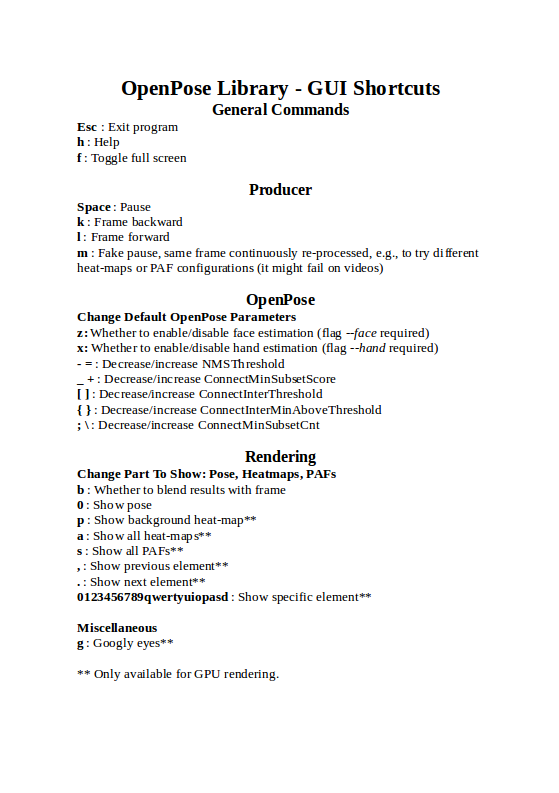
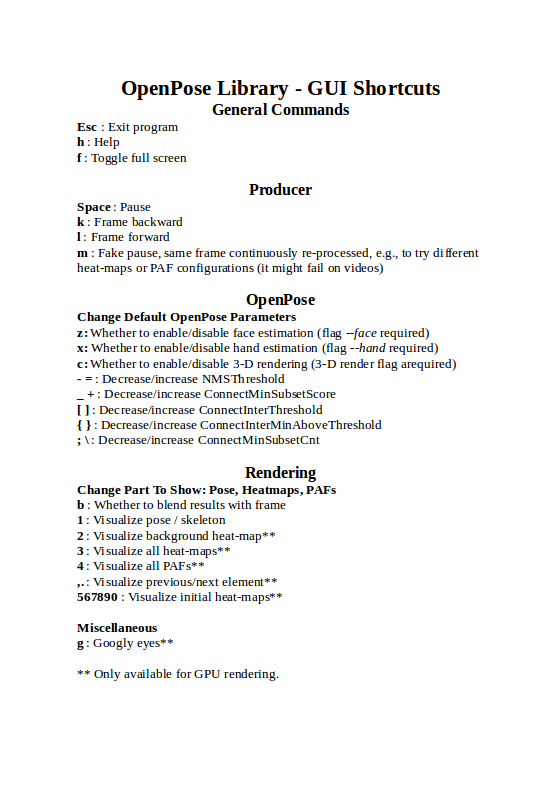
Switched shorcuts for channel selection

Changed region(s): [[0.1216, 0.454, 0.8211, 0.7566]]

diff --git a/src/openpose/gui/gui.cpp b/src/openpose/gui/gui.cpp
@@ -33,7 +33,8 @@ namespace op
                        std::vector<std::shared_ptr<HandExtractorNet>>& handExtractorNets,
                        std::vector<std::shared_ptr<Renderer>>& renderers,
                        std::shared_ptr<std::atomic<bool>>& isRunningSharedPtr,
-                       std::shared_ptr<std::pair<std::atomic<bool>, std::atomic<int>>>& videoSeekSharedPtr)
+                       std::shared_ptr<std::pair<std::atomic<bool>, std::atomic<int>>>& videoSeekSharedPtr,
+                       DisplayMode& displayMode, DisplayMode& displayModeOriginal)
     {
         try
         {
@@ -128,6 +129,12 @@ namespace op
                         log("OpenPose must be run with face keypoint estimation enabled (`--hand` flag).",
                             Priority::High);
                 }
+                // Enable/disable extra rendering (3D/Adam), while keeping 2D rendering
+                else if (castedKey=='c')
+                {
+                    displayMode = (displayMode == DisplayMode::DisplayAll
+                                   ? displayModeOriginal : DisplayMode::DisplayAll);
+                }
                 // ------------------------- Miscellaneous ------------------------- //
                 // Show googly eyes
                 else if (castedKey=='g')
@@ -142,11 +149,37 @@ namespace op
                 }
                 else
                 {
-                    const std::string key2part = "0123456789qwertyuiopasd";
+                    // Skeleton / Background / Add keypoints / Add PAFs
+                    const std::string key2part = "1234";
                     const auto newElementToRender = key2part.find(castedKey);
                     if (newElementToRender != std::string::npos)
+                    {
+                        ElementToRender elementToRender;
+                        if (castedKey=='1')
+                            elementToRender = ElementToRender::Skeleton;
+                        else if (castedKey=='2')
+                            elementToRender = ElementToRender::Background;
+                        else if (castedKey=='3')
+                            elementToRender = ElementToRender::AddKeypoints;
+                        else if (castedKey=='4')
+                            elementToRender = ElementToRender::AddPAFs;
+                        else
+                            error("Unknown ElementToRender value.", __LINE__, __FUNCTION__, __FILE__);
                         for (auto& renderer : renderers)
-                            renderer->setElementToRender((int)newElementToRender);
+                            renderer->setElementToRender(elementToRender);
+                    }
+
+                    // Heatmap visualization
+                    else
+                    {
+                        // Other rendering options
+                        // const std::string key2partHeatmaps = "0123456789qwertyuiopasd";
+                        const std::string key2partHeatmaps = "567890";
+                        const auto newElementToRender = key2partHeatmaps.find(castedKey);
+                        if (newElementToRender != std::string::npos)
+                            for (auto& renderer : renderers)
+                                renderer->setElementToRender((int)newElementToRender+key2part.size());
+                    }
                 }
             }
         }
@@ -162,19 +195,20 @@ namespace op
                          std::vector<std::shared_ptr<HandExtractorNet>>& handExtractorNets,
                          std::vector<std::shared_ptr<Renderer>>& renderers,
                          std::shared_ptr<std::atomic<bool>>& isRunningSharedPtr,
-                         std::shared_ptr<std::pair<std::atomic<bool>, std::atomic<int>>>& videoSeekSharedPtr)
+                         std::shared_ptr<std::pair<std::atomic<bool>, std::atomic<int>>>& videoSeekSharedPtr,
+                         DisplayMode& displayMode, DisplayMode& displayModeOriginal)
     {
         try
         {
             // The handleUserInput must be always performed, even if no tDatum is detected
             bool guiPaused = false;
             handleWaitKey(guiPaused, frameDisplayer, poseExtractorNets, faceExtractorNets, handExtractorNets,
-                          renderers, isRunningSharedPtr, videoSeekSharedPtr);
+                          renderers, isRunningSharedPtr, videoSeekSharedPtr, displayMode, displayModeOriginal);
             while (guiPaused)
             {
                 std::this_thread::sleep_for(std::chrono::milliseconds{1});
                 handleWaitKey(guiPaused, frameDisplayer, poseExtractorNets, faceExtractorNets, handExtractorNets,
-                              renderers, isRunningSharedPtr, videoSeekSharedPtr);
+                              renderers, isRunningSharedPtr, videoSeekSharedPtr, displayMode, displayModeOriginal);
             }
         }
         catch (const std::exception& e)
@@ -189,8 +223,11 @@ namespace op
              const std::vector<std::shared_ptr<PoseExtractorNet>>& poseExtractorNets,
              const std::vector<std::shared_ptr<FaceExtractorNet>>& faceExtractorNets,
              const std::vector<std::shared_ptr<HandExtractorNet>>& handExtractorNets,
-             const std::vector<std::shared_ptr<Renderer>>& renderers) :
+             const std::vector<std::shared_ptr<Renderer>>& renderers,
+             const DisplayMode displayMode) :
         spIsRunning{isRunningSharedPtr},
+        mDisplayMode{displayMode},
+        mDisplayModeOriginal{displayMode},
         mFrameDisplayer{OPEN_POSE_NAME_AND_VERSION, outputSize, fullScreen},
         mPoseExtractorNets{poseExtractorNets},
         mFaceExtractorNets{faceExtractorNets},
@@ -248,7 +285,7 @@ namespace op
         {
             // Handle user input
             handleUserInput(mFrameDisplayer, mPoseExtractorNets, mFaceExtractorNets, mHandExtractorNets,
-                            mRenderers, spIsRunning, spVideoSeek);
+                            mRenderers, spIsRunning, spVideoSeek, mDisplayMode, mDisplayModeOriginal);
         }
         catch (const std::exception& e)
         {

diff --git a/src/openpose/pose/poseGpuRenderer.cpp b/src/openpose/pose/poseGpuRenderer.cpp
@@ -108,17 +108,9 @@ namespace op
                         // Parameters
                         const auto& heatMapSizes = spPoseExtractorNet->getHeatMapSize();
                         const Point<int> heatMapSize{heatMapSizes[3], heatMapSizes[2]};
-                        // Draw specific body part or bkg
-                        if (elementRendered <= numberBodyPartsPlusBkg)
-                        {
-                            elementRenderedName = mPartIndexToName.at(elementRendered-1);
-                            renderPoseHeatMapGpu(*spGpuMemory, mPoseModel, frameSize,
-                                                 spPoseExtractorNet->getHeatMapGpuConstPtr(),
-                                                 heatMapSize, scaleNetToOutput * scaleInputToOutput, elementRendered,
-                                                 (mBlendOriginalFrame ? getAlphaHeatMap() : 1.f));
-                        }
-                        // Draw PAFs (Part Affinity Fields)
-                        else if (elementRendered == numberBodyPartsPlusBkg+1)
+                        // Add all heatmaps
+                        if (elementRendered == 2)
+                        // if (elementRendered == numberBodyPartsPlusBkg+1)
                         {
                             elementRenderedName = "Heatmaps";
                             renderPoseHeatMapsGpu(*spGpuMemory, mPoseModel, frameSize,
@@ -127,13 +119,26 @@ namespace op
                                                   (mBlendOriginalFrame ? getAlphaHeatMap() : 1.f));
                         }
                         // Draw PAFs (Part Affinity Fields)
-                        else if (elementRendered == numberBodyPartsPlusBkg+2)
+                        else if (elementRendered == 3)
+                        // else if (elementRendered == numberBodyPartsPlusBkg+2)
                         {
                             elementRenderedName = "PAFs (Part Affinity Fields)";
                             renderPosePAFsGpu(*spGpuMemory, mPoseModel, frameSize,
                                               spPoseExtractorNet->getHeatMapGpuConstPtr(),
                                               heatMapSize, scaleNetToOutput * scaleInputToOutput,
                                               (mBlendOriginalFrame ? getAlphaHeatMap() : 1.f));
+                        }
+                        // Draw specific body part or background
+                        else if (elementRendered <= numberBodyPartsPlusBkg)
+                        {
+                            const auto realElementRendered = (elementRendered == 1
+                                                                ? numberBodyPartsPlusBkg
+                                                                : elementRendered - 3);
+                            elementRenderedName = mPartIndexToName.at(realElementRendered-1);
+                            renderPoseHeatMapGpu(*spGpuMemory, mPoseModel, frameSize,
+                                                 spPoseExtractorNet->getHeatMapGpuConstPtr(),
+                                                 heatMapSize, scaleNetToOutput * scaleInputToOutput, realElementRendered,
+                                                 (mBlendOriginalFrame ? getAlphaHeatMap() : 1.f));
                         }
                         // Draw affinity between 2 body parts
                         else

diff --git a/src/openpose/gui/guiAdam.cpp b/src/openpose/gui/guiAdam.cpp
@@ -52,15 +52,10 @@ namespace op
             // Shared parameters
             const std::shared_ptr<const TotalModel> spTotalModel;
 
-            // Display mode
-            DisplayMode mDisplayMode; // Whether to also display 2D keypoints
-
             ImplGuiAdam(const std::shared_ptr<const TotalModel>& totalModel,
-                        const DisplayMode displayMode = DisplayMode::DisplayAll,
                         const std::string& adamRenderedVideoPath = "") :
                 mWriteAdamRenderAsVideo{adamRenderedVideoPath},
-                spTotalModel{totalModel},
-                mDisplayMode{displayMode}
+                spTotalModel{totalModel}
             {
                 try
                 {
@@ -86,8 +81,8 @@ namespace op
                      const DisplayMode displayMode, const std::shared_ptr<const TotalModel>& totalModel,
                      const std::string& adamRenderedVideoPath) :
         Gui{outputSize, fullScreen, isRunningSharedPtr, videoSeekSharedPtr, poseExtractorNets, faceExtractorNets,
-            handExtractorNets, renderers},
-        spImpl{std::make_shared<ImplGuiAdam>(totalModel, displayMode, adamRenderedVideoPath)}
+            handExtractorNets, renderers, displayMode},
+        spImpl{std::make_shared<ImplGuiAdam>(totalModel, adamRenderedVideoPath)}
     {
         try
         {
@@ -121,11 +116,11 @@ namespace op
         try
         {
             // Init parent class
-            if (spImpl->mDisplayMode == DisplayMode::DisplayAll || spImpl->mDisplayMode == DisplayMode::Display2D)
+            if (mDisplayMode == DisplayMode::DisplayAll || mDisplayMode == DisplayMode::Display2D)
                 Gui::initializationOnThread();
             #ifdef WITH_3D_ADAM_MODEL
-                if (spImpl->mDisplayMode == DisplayMode::DisplayAll
-                    || spImpl->mDisplayMode == DisplayMode::DisplayAdam)
+                if (mDisplayMode == DisplayMode::DisplayAll
+                    || mDisplayMode == DisplayMode::DisplayAdam)
                 {
                     int argc = 0;
                     // char* argv[0];
@@ -158,8 +153,8 @@ namespace op
         {
             // Adam rendering
             #ifdef WITH_3D_ADAM_MODEL
-                if (spImpl->mDisplayMode == DisplayMode::DisplayAll
-                    || spImpl->mDisplayMode == DisplayMode::DisplayAdam)
+                if (mDisplayMode == DisplayMode::DisplayAll
+                    || mDisplayMode == DisplayMode::DisplayAdam)
                 {
                     CMeshModelInstance cMeshModelInstance;
                     VisualizedData visualizedData;
@@ -277,7 +272,7 @@ namespace op
         try
         {   
             // 2-D rendering
-            if (spImpl->mDisplayMode == DisplayMode::DisplayAll || spImpl->mDisplayMode == DisplayMode::Display2D)
+            if (mDisplayMode == DisplayMode::DisplayAll || mDisplayMode == DisplayMode::Display2D)
                 Gui::update();
         }
         catch (const std::exception& e)

diff --git a/src/openpose/core/renderer.cpp b/src/openpose/core/renderer.cpp
@@ -2,9 +2,9 @@
 
 namespace op
 {
-    Renderer::Renderer(const float renderThreshold, const float alphaKeypoint, const float alphaHeatMap,
-                       const bool blendOriginalFrame, const unsigned int elementToRender,
-                       const unsigned int numberElementsToRender) :
+    Renderer::Renderer(const float renderThreshold, const float alphaKeypoint,
+                       const float alphaHeatMap, const bool blendOriginalFrame,
+                       const unsigned int elementToRender, const unsigned int numberElementsToRender) :
         mRenderThreshold{renderThreshold},
         mBlendOriginalFrame{blendOriginalFrame},
         spElementToRender{std::make_shared<std::atomic<unsigned int>>(elementToRender)},
@@ -42,6 +42,27 @@ namespace op
         try
         {
             *spElementToRender = elementToRender % *spNumberElementsToRender;
+        }
+        catch (const std::exception& e)
+        {
+            error(e.what(), __LINE__, __FUNCTION__, __FILE__);
+        }
+    }
+
+    void Renderer::setElementToRender(const ElementToRender elementToRender)
+    {
+        try
+        {
+            if (elementToRender == ElementToRender::Skeleton)
+                *spElementToRender = 0;
+            else if (elementToRender == ElementToRender::Background)
+                *spElementToRender = 1;
+            else if (elementToRender == ElementToRender::AddKeypoints)
+                *spElementToRender = 2;
+            else if (elementToRender == ElementToRender::AddPAFs)
+                *spElementToRender = 3;
+            else
+                error("Unknown ElementToRender value.", __LINE__, __FUNCTION__, __FILE__);
         }
         catch (const std::exception& e)
         {

diff --git a/include/openpose/gui/gui.hpp b/include/openpose/gui/gui.hpp
@@ -21,7 +21,8 @@ namespace op
             const std::vector<std::shared_ptr<PoseExtractorNet>>& poseExtractorNets = {},
             const std::vector<std::shared_ptr<FaceExtractorNet>>& faceExtractorNets = {},
             const std::vector<std::shared_ptr<HandExtractorNet>>& handExtractorNets = {},
-            const std::vector<std::shared_ptr<Renderer>>& renderers = {});
+            const std::vector<std::shared_ptr<Renderer>>& renderers = {},
+            const DisplayMode displayMode = DisplayMode::Display2D);
 
         virtual void initializationOnThread();
 
@@ -33,6 +34,8 @@ namespace op
 
     protected:
         std::shared_ptr<std::atomic<bool>> spIsRunning;
+        DisplayMode mDisplayMode;
+        DisplayMode mDisplayModeOriginal;
 
     private:
         // Frames display

diff --git a/src/openpose/gui/gui3D.cpp b/src/openpose/gui/gui3D.cpp
@@ -423,8 +423,7 @@ namespace op
                  const std::vector<std::shared_ptr<Renderer>>& renderers, const PoseModel poseModel,
                  const DisplayMode displayMode) :
         Gui{outputSize, fullScreen, isRunningSharedPtr, videoSeekSharedPtr, poseExtractorNets, faceExtractorNets,
-            handExtractorNets, renderers},
-        mDisplayMode{displayMode}
+            handExtractorNets, renderers, displayMode}
     {
         try
         {

diff --git a/include/openpose/core/renderer.hpp b/include/openpose/core/renderer.hpp
@@ -3,6 +3,7 @@
 
 #include <atomic>
 #include <openpose/core/common.hpp>
+#include <openpose/core/enumClasses.hpp>
 
 namespace op
 {
@@ -16,6 +17,8 @@ namespace op
         void increaseElementToRender(const int increment);
 
         void setElementToRender(const int elementToRender);
+
+        void setElementToRender(const ElementToRender elementToRender);
 
         bool getBlendOriginalFrame() const;
 

diff --git a/include/openpose/core/enumClasses.hpp b/include/openpose/core/enumClasses.hpp
@@ -27,6 +27,14 @@ namespace op
         Cpu,
         Gpu,
     };
+
+    enum class ElementToRender : unsigned char
+    {
+        Skeleton,
+        Background,
+        AddKeypoints,
+        AddPAFs,
+    };
 }
 
 #endif // OPENPOSE_CORE_ENUM_CLASSES_HPP

diff --git a/include/openpose/gui/gui3D.hpp b/include/openpose/gui/gui3D.hpp
@@ -30,9 +30,6 @@ namespace op
                           const Array<float>& leftHandKeypoints3D, const Array<float>& rightHandKeypoints3D);
 
         virtual void update();
-
-    private:
-        DisplayMode mDisplayMode;
     };
 }
 

diff --git a/doc/release_notes.md b/doc/release_notes.md
@@ -228,11 +228,13 @@ OpenPose Library - Release Notes
     8. New `PoseExtractor` class to contain future ID and tracking algorithms as well as the current OpenPose keypoint detection algorithm.
     9. Added initial alpha versions of the `tracking` and `identification` modules (for now disabled but available in the source code), including `PersonIdExtractor` and `PersonTracker`. `PersonIdExtractor` includes greedy matrix OP-LK matching.
     10. Added catchs to all demos for higher debug information.
+    11. GUI includes the capability of dynamically enable/disable the face, hand, and 3-D rendering, as well as more clear visualization for skeleton, background, heatmap addition, and PAF addition channels.
 2. Functions or parameters renamed:
     1. Removed scale parameter from hand and face rectangle extractor (causing wrong results if custom `--output_resolution`).
     2. Functions `scaleKeypoints`, other than `scaleKeypoints(Array<float>& keypoints, const float scale)`, renamed as `scaleKeypoints2d`.
     3. `(W)PoseExtractor` renamed to `(W)PoseExtractorNet` to distinguish from new `PoseExtractor`. Analogously with `(W)FaceExtractorNet` and `(W)HandExtractorNet`.
     4. Experimental module removed and internal `tracking` folder moved to main openpose folder.
+    5. Switched GUI shortcuts for the kind of channel to render (skeleton, heatmap, PAF, ...) in order to make it more intuitive: 1 for skeleton, 1 for background heatmap, 2 for adding all heatmaps, 3 for adding all PAFs, and 4 to 0 for the initial heatmaps.
 3. Main bugs fixed:
     1. Fixed hand and face extraction and rendering scaling issues when `--output_resolution` is not the default one.
     2. Part candidates (`--part_candidates`) are saved with the same scale than the final keypoints itself.
